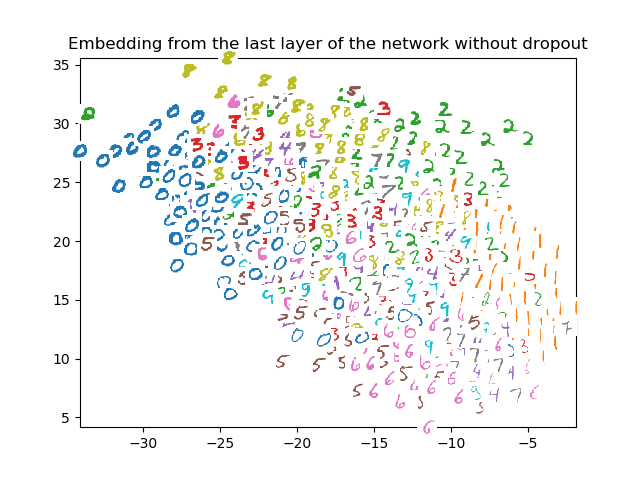
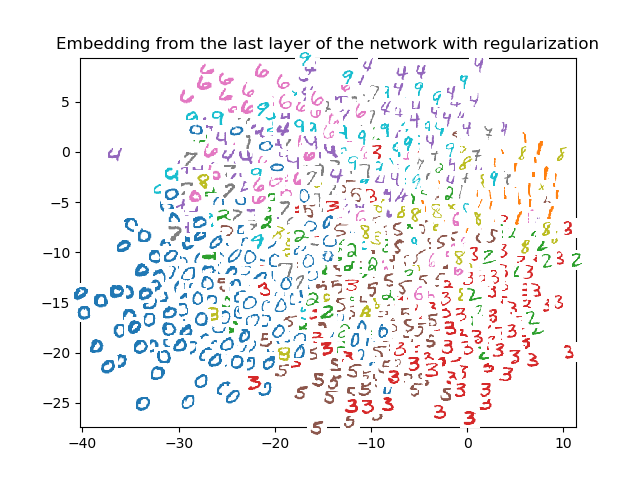
new experiment of my idea

diff --git a/venv/run.py b/venv/run.py
@@ -9,32 +9,34 @@ var1 = [var for var in tf.trainable_variables() if var.name.startswith('siamese/
 var2 = [var for var in tf.trainable_variables() if var.name.startswith('siamese/net2')]
 var3 = [var for var in tf.trainable_variables() if var.name.startswith('siamese/net3')]
 var4 = [var for var in tf.trainable_variables() if var.name.startswith('siamese/net4')]
-train_step12 = tf.train.AdamOptimizer(0.005).minimize(siamese.loss, var_list=[var1, var2])
-train_step34 = tf.train.AdamOptimizer(0.001).minimize(siamese.loss, var_list=[var3, var4])
+train_step12 = tf.train.AdamOptimizer(0.0001).minimize(siamese.loss, var_list=[var1, var2])
+train_step34 = tf.train.AdamOptimizer(0.0001).minimize(siamese.loss, var_list=[var3, var4])
 
-train_step_all = tf.train.AdamOptimizer(0.001).minimize(siamese.loss, var_list=tf.trainable_variables())
+train_step_all = tf.train.AdamOptimizer(0.00005).minimize(siamese.loss, var_list=tf.trainable_variables())
 
 sess = tf.Session()
 sess.run(tf.global_variables_initializer())
 
 keep_prob = 1
 
-for i in range(20001):
+for i in range(40001):
     x1, y1 = mnist.train.next_batch(100)
     x2, y2 = mnist.train.next_batch(100)
     #answer = tf.cast(tf.equal(y1, y2), dtype=tf.float32)
     answer = (y1 == y2).astype(float)
-    if i % 3000 < 2000:
+    if i % 10000 < 3000:
         train_step = train_step12
-    else:
+    elif i % 10000 < 6000:
         train_step = train_step34
-    _, loss = sess.run([train_step_all, siamese.loss], feed_dict={siamese.image1: x1,
-                                                                  siamese.image2: x2,
-                                                                  siamese.y_: answer,
-                                                                  siamese.keep_prob: keep_prob})
+    else:
+        train_step = train_step_all
+    _, loss = sess.run([train_step, siamese.loss], feed_dict={siamese.image1: x1,
+                                                              siamese.image2: x2,
+                                                              siamese.y_: answer,
+                                                              siamese.keep_prob: keep_prob})
     if i % 10 == 0:
         print("%d step, loss = %.3f" % (i, loss))
-    if i % 5000 == 0:
+    if i % 10000 == 0:
         print(var1, var2, var3, var4)
         embed = siamese.out1.eval(session=sess, feed_dict={siamese.image1: mnist.test.images,
                                                            siamese.keep_prob: 1})

diff --git a/venv/siamese.py b/venv/siamese.py
@@ -20,7 +20,7 @@ class siamese:
         net2 = tf.nn.relu(net2)
         net3 = self.layer(net2, 512, "net3")
         net3 = tf.nn.relu(net3)
-        net4 = self.layer(net2, 2, "net4")
+        net4 = self.layer(net3, 2, "net4")
         net4 = tf.nn.dropout(net4, keep_prob=self.keep_prob)
         return net4
     
@@ -37,9 +37,11 @@ class siamese:
         margine = tf.constant(5, dtype=tf.float32)
         label = self.y_
         label_ = tf.subtract(1.0, label)
-        term1 = tf.pow(tf.reduce_sum(tf.multiply(distance, label), 0), 2)
-        term2 = tf.pow(tf.reduce_sum(tf.multiply(tf.maximum(tf.subtract(margine, distance), 0), label_)), 2)
-        regularizer = tf.contrib.layers.l2_regularizer(scale=100.0/100)
+        term1 = tf.reduce_sum(tf.multiply(distance, label), 0)
+        term2 = tf.reduce_sum(tf.multiply(tf.maximum(tf.subtract(margine, distance), 0), label_))
+        term1 = tf.pow(term1, 2) + term1
+        term2 = tf.pow(term2, 2) + term2
+        regularizer = tf.contrib.layers.l2_regularizer(scale=1.0/100)
         reg_term = tf.contrib.layers.apply_regularization(regularizer)
-        loss_of_siamese = term1 + term2 #+ reg_term
+        loss_of_siamese = term1 + term2 + reg_term
         return loss_of_siamese 
